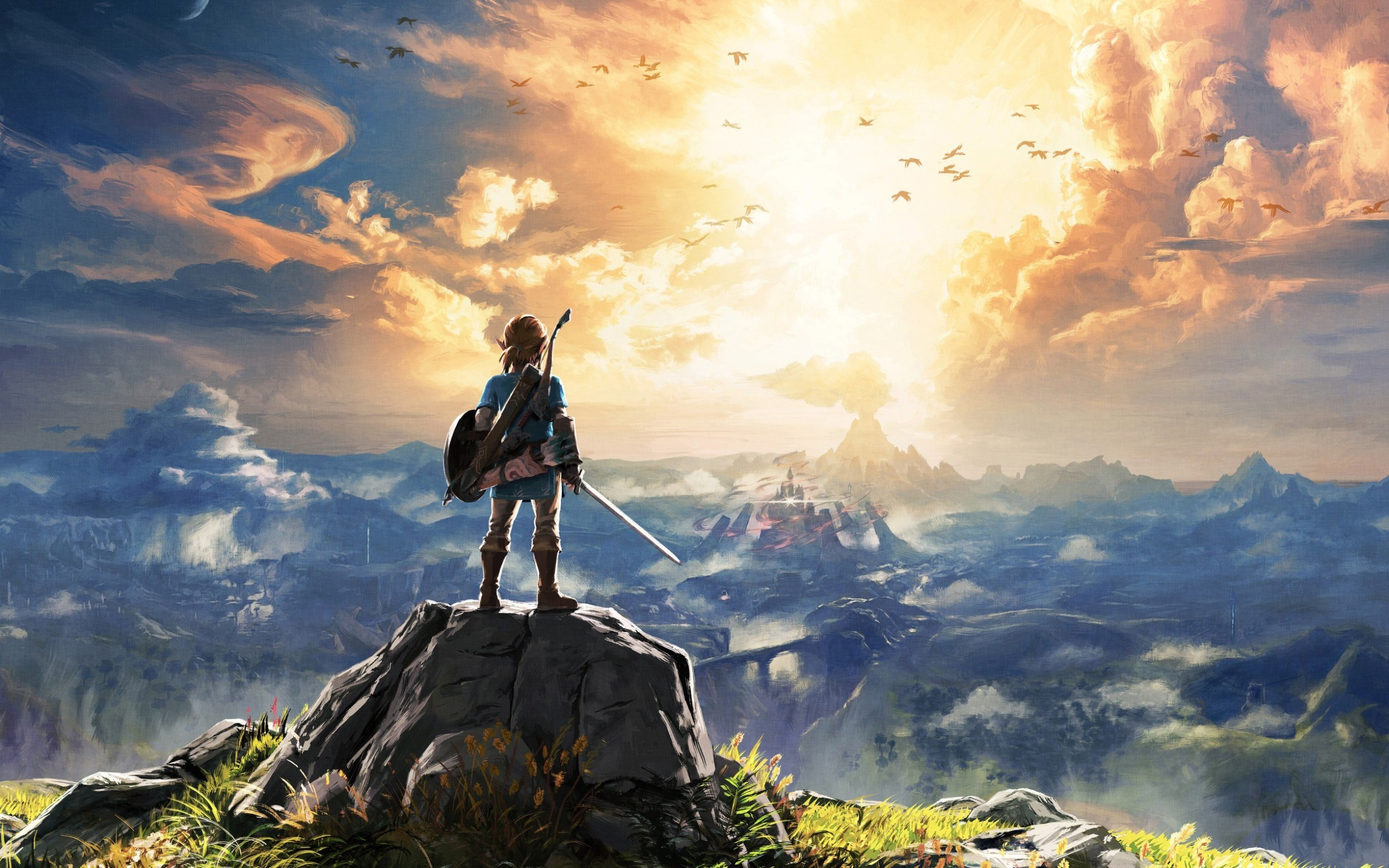
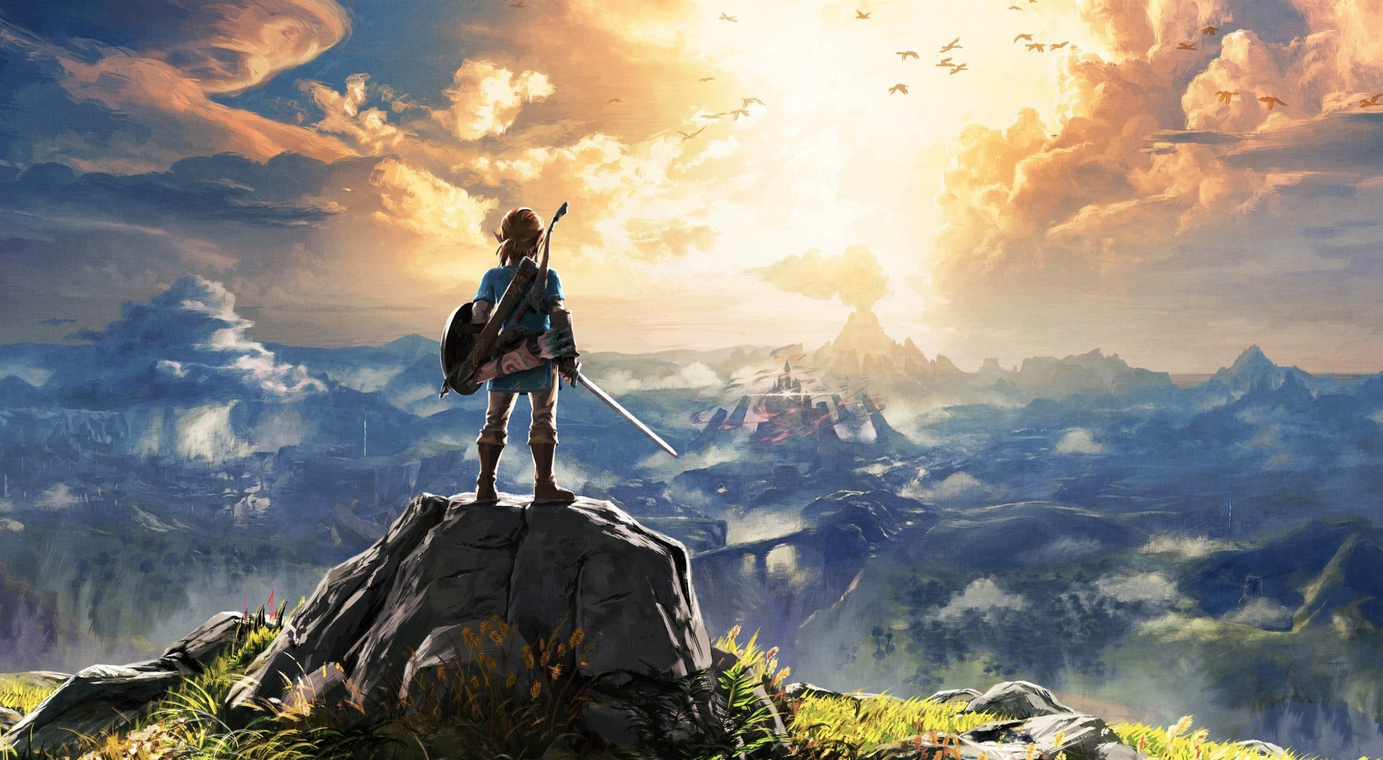
Fixed background

diff --git a/css/style.css b/css/style.css
@@ -12,7 +12,7 @@
 .main{
     background-image: url("/imgs/background.jpg");
     background-size: 100%;
-    height: 840px;
+    height: 780px;
     width: 100%;
 }
 

diff --git a/css/screens/index.css b/css/screens/index.css
@@ -32,6 +32,7 @@
     margin-left: 100px;
     height: 380px;
     cursor: pointer;
+    
 }
 
 .trailer-video__src{
